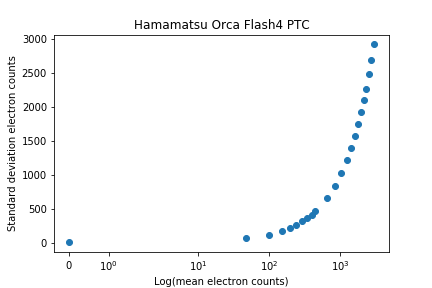
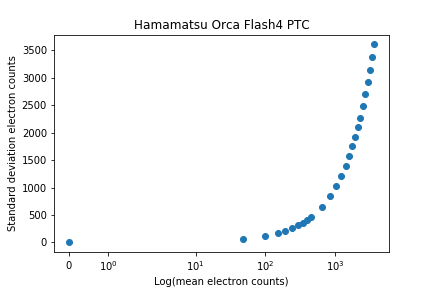
recent

diff --git a/Return1/Matt/PTC/ptc_data_analyser_pxxpx.py b/Return1/Matt/PTC/ptc_data_analyser_pxxpx.py
@@ -29,8 +29,12 @@ for J in range(np.size(data,1)): # Scan through pixels in y...
         slope, intercept, r_value, p_value, std_err = stats.linregress(mean[J,K,:], sqd_std[J,K,:]) # calculate gain
         results[J,K] = slope # Save gain for each pixel in results array
 
-plt.hist(results) # Plot
+new_results = np.reshape(results,np.size(results))
+
+plt.hist(new_results,bins = np.linspace(0,3, 100)) # Plot
 plt.xlabel("Pixel gain / electrons per count")
 plt.ylabel("Frequency")
 plt.title("Hamamatsu Orca Flash4: Pixel by pixel gain")
+plt.show
+
 plt.savefig("flash4_pxxpx_gain.png") # Save

diff --git a/Return1/Matt/PTC/ptc_data_analyser.py b/Return1/Matt/PTC/ptc_data_analyser.py
@@ -30,7 +30,7 @@ print (slope)
 mean_std_array = mean_std_array[:,:] * slope # Correct for gain
 
 
-plt.plot(mean_std_array[3:,0],sqd_std[3:],"o") # Plot
+plt.plot(mean_std_array[:,0],sqd_std[:],"o") # Plot
 plt.xscale("symlog")
 #plt.yscale("log")
 plt.ylabel("Standard deviation electron counts")
